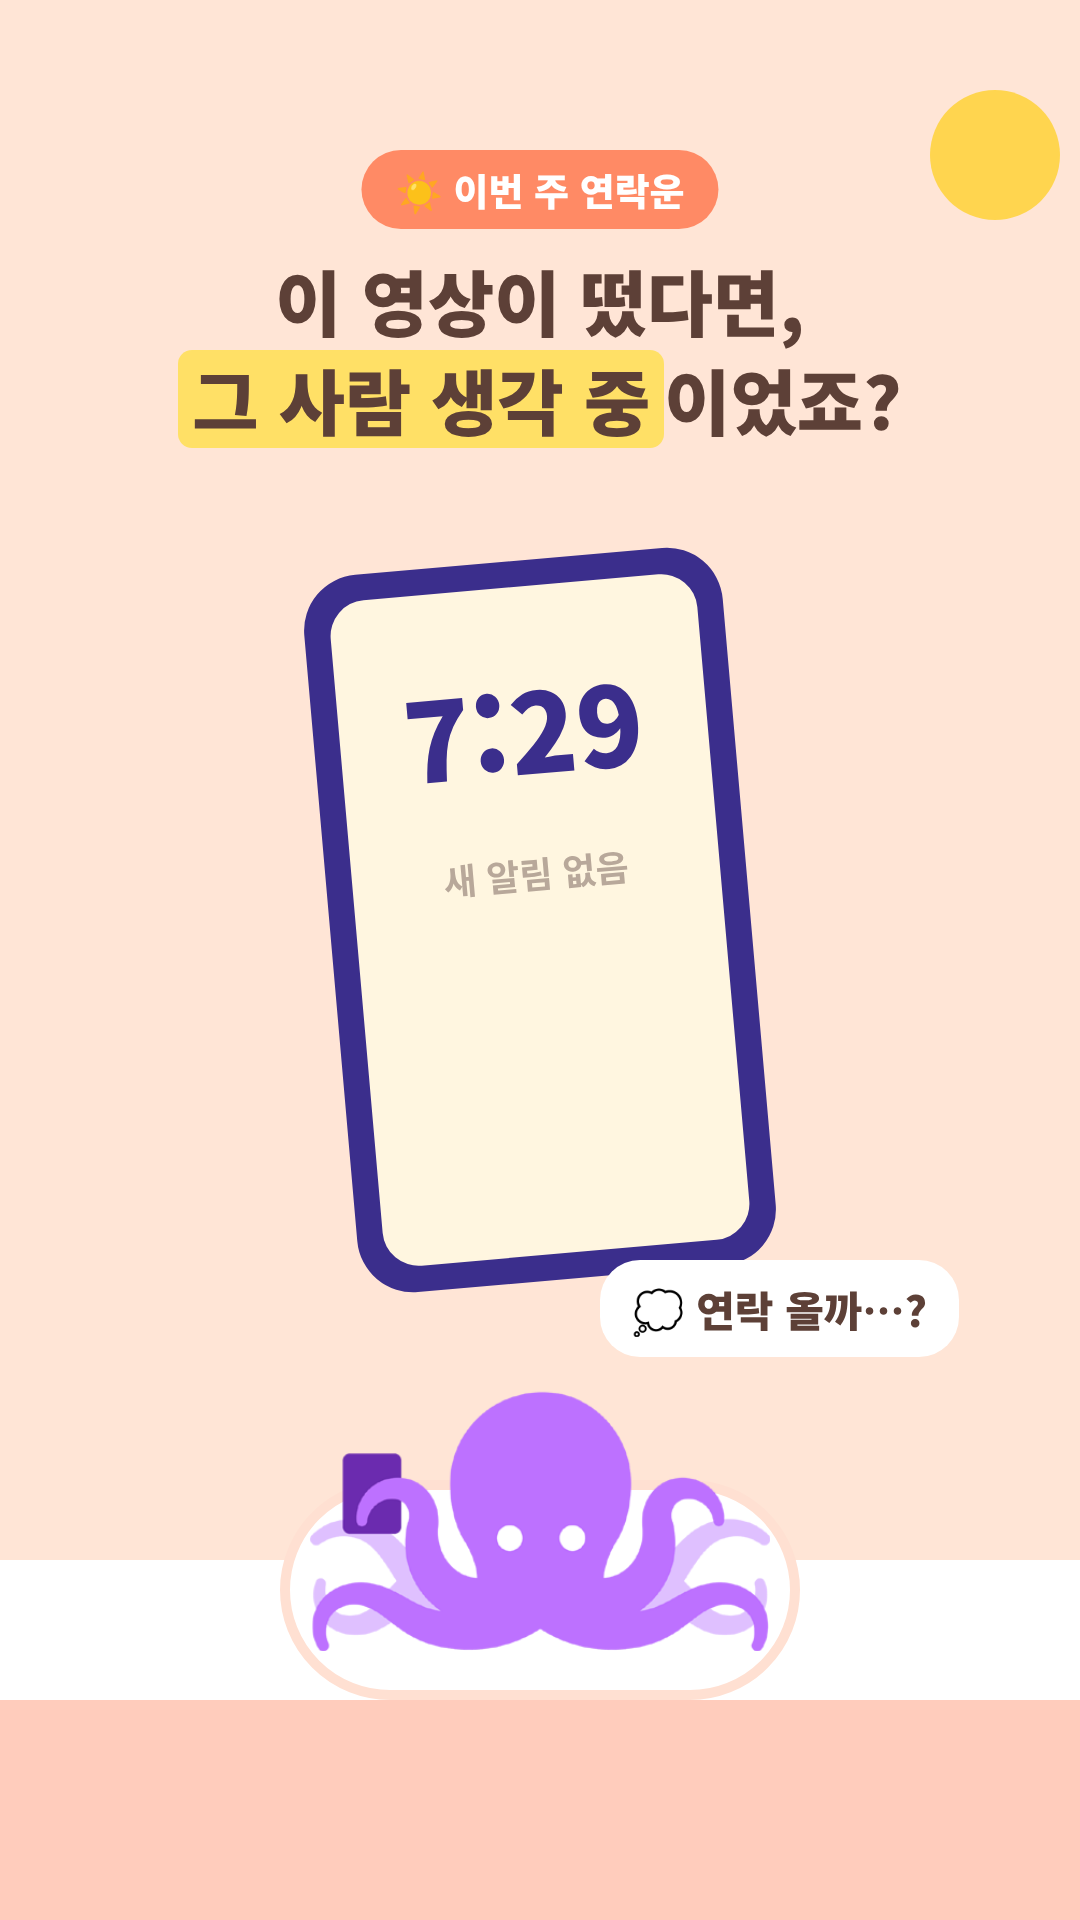
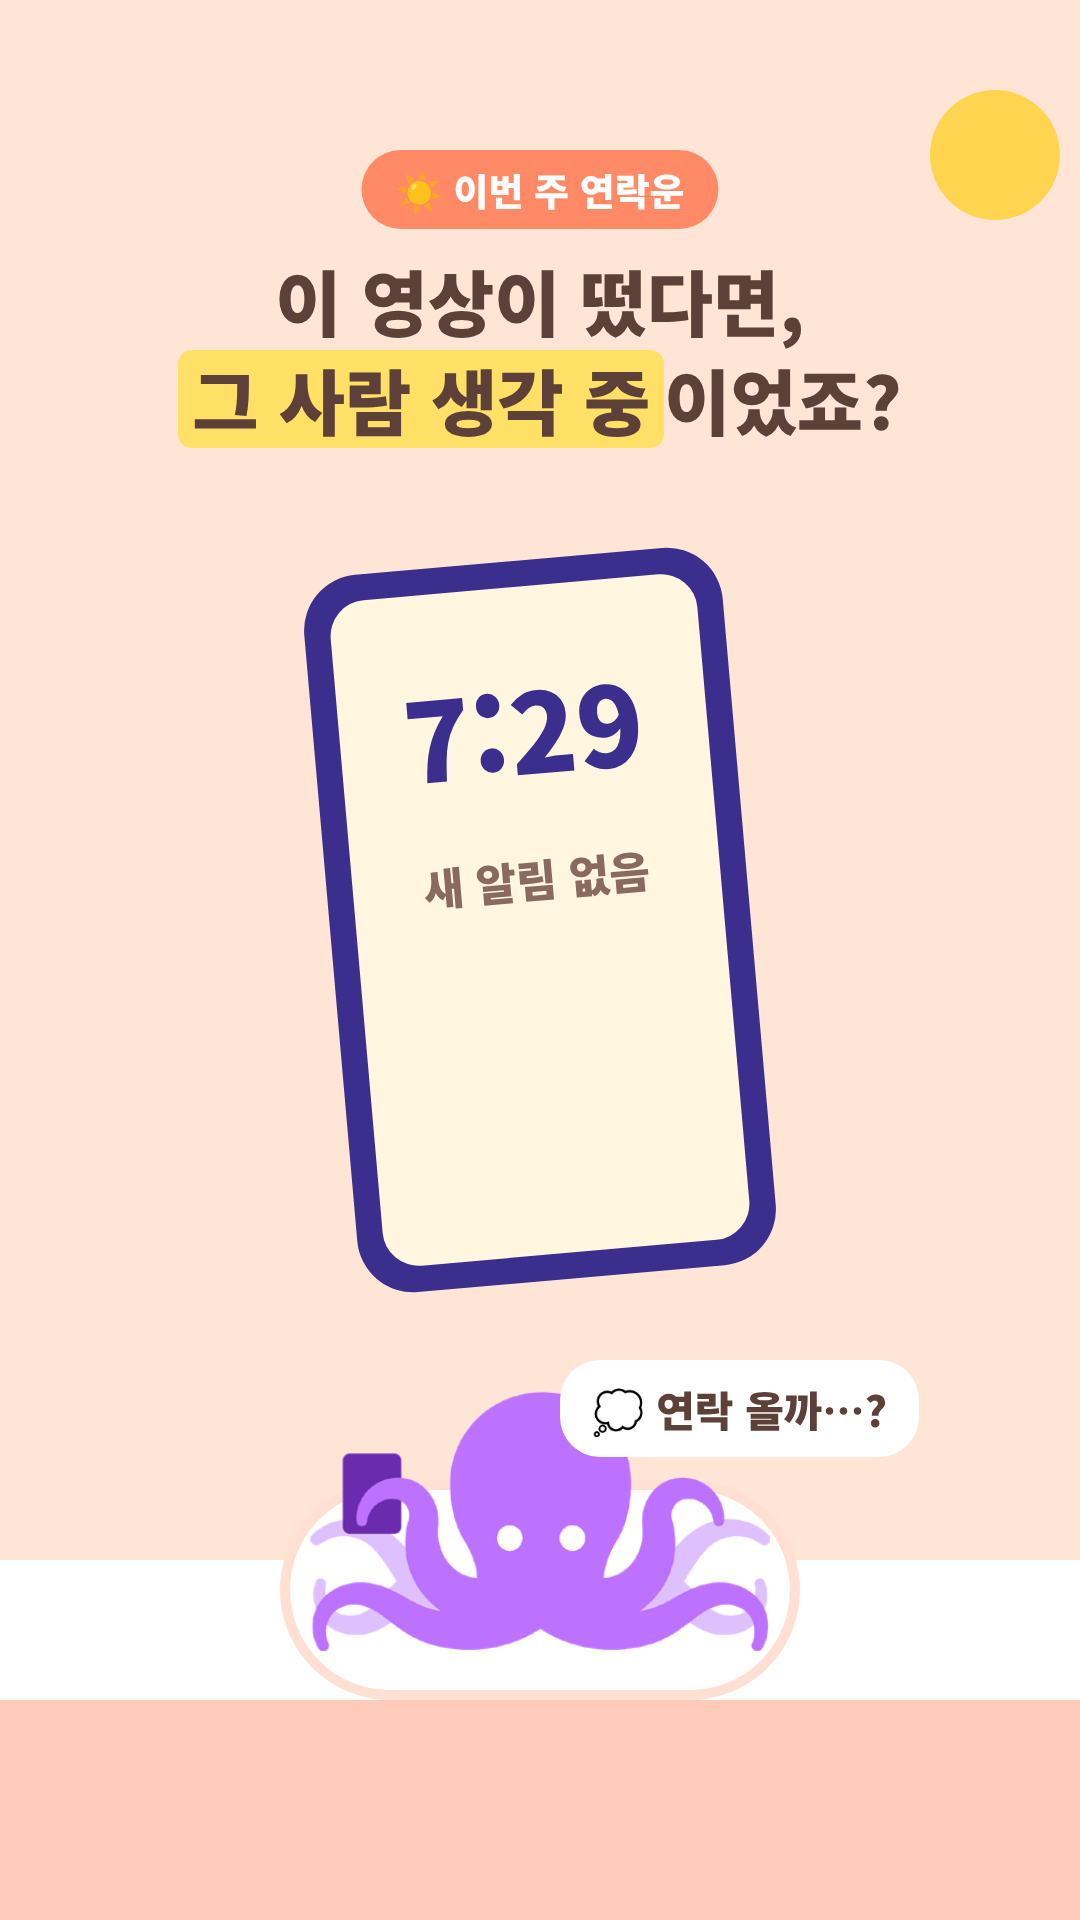
연락운 머리맡 알림: 결론에서 휴대폰 제거, 제목 한 줄, 훅 글씨·풍선 정리
Claude-Session: https://claude.ai/code/session_01CejgdC5FKbbZMnpaYgrfgJ

Changed region(s): [[0.5194, 0.6562, 0.8861, 0.7812], [0.3972, 0.4375, 0.6111, 0.4688]]

diff --git a/promo/src/reel_mcall_04_answer.html b/promo/src/reel_mcall_04_answer.html
@@ -35,8 +35,8 @@
 </style></head><body>
 <div class="f" id="frame">
 <span class="bd">☀ 이번 주 연락운</span><div class="sunw"></div>
-<div class="mini2" style="left:25px;top:780px"><div class="bk" style="background:#FF8A65;border-width:7px;border-radius:14px"><svg viewBox="0 0 10 10"><path d="M5 0Q5.6 4.4 10 5Q5.6 5.6 5 10Q4.4 5.6 0 5Q4.4 4.4 5 0z" fill="#FFE066"/></svg></div><b>과거</b></div><div class="mini2" style="left:185px;top:780px"><div class="bk" style="background:#FF8A65;border-width:7px;border-radius:14px"><svg viewBox="0 0 10 10"><path d="M5 0Q5.6 4.4 10 5Q5.6 5.6 5 10Q4.4 5.6 0 5Q4.4 4.4 5 0z" fill="#FFE066"/></svg></div><b>현재</b></div>
-<div class="cd" style="top:330px;width:420px;left:350px;margin-left:0"><img class="tcard" src="cards/tr17@2x.jpg" alt="Star(별)" style="border:0;border-radius:24px;background:none"></div>
-<div class="phone"><div class="sc"><div class="tm">7:30</div><div class="nt">💬 그 사람<br>좋은 아침 ☀</div><div class="rp">답장하기 💌</div></div></div>
-<div class="ans" style="top:1260px"><span class="mk">이번 주 안에 연락이 와요</span><small>미래 · Star(별) — 멈춰 있던 마음이 이어지는 카드</small></div>
+<div class="mini2" style="left:30px;top:840px"><div class="bk" style="background:#FF8A65;border-width:7px;border-radius:14px"><svg viewBox="0 0 10 10"><path d="M5 0Q5.6 4.4 10 5Q5.6 5.6 5 10Q4.4 5.6 0 5Q4.4 4.4 5 0z" fill="#FFE066"/></svg></div><b>과거</b></div><div class="mini2" style="left:190px;top:840px"><div class="bk" style="background:#FF8A65;border-width:7px;border-radius:14px"><svg viewBox="0 0 10 10"><path d="M5 0Q5.6 4.4 10 5Q5.6 5.6 5 10Q4.4 5.6 0 5Q4.4 4.4 5 0z" fill="#FFE066"/></svg></div><b>현재</b></div>
+<div class="cd" style="top:330px;width:470px;left:360px;margin-left:0"><img class="tcard" src="cards/tr17@2x.jpg" alt="Star(별)" style="border:0;border-radius:24px;background:none"></div>
+
+<div class="ans" style="top:1300px"><span class="mk">이번 주 안에 연락이 와요</span><small>미래 · Star(별) — 멈춰 있던 마음이 이어지는 카드</small></div>
 </div></body></html>

diff --git a/promo/src/reel_mcall_02_future.html b/promo/src/reel_mcall_02_future.html
@@ -26,6 +26,6 @@
 .row span:not(.on){opacity:.35}.row .on{scale:1.15}</style></head><body>
 <div class="f" id="frame">
 <span class="bd">☀ 이번 주 연락운</span><div class="sunw"></div>
-<p class="t">이번 주<br><span class="mk">미래 한 장만</span> 볼게요</p>
+<p class="t" style="top:300px">이번 주 <span class="mk">미래 한 장만</span> 볼게요</p>
 <div class="row" style="top:720px"><span><div class="bk" style="background:#FF8A65"><svg viewBox="0 0 10 10"><path d="M5 0Q5.6 4.4 10 5Q5.6 5.6 5 10Q4.4 5.6 0 5Q4.4 4.4 5 0z" fill="#FFE066"/></svg></div><b>과거</b></span><span><div class="bk" style="background:#FF8A65"><svg viewBox="0 0 10 10"><path d="M5 0Q5.6 4.4 10 5Q5.6 5.6 5 10Q4.4 5.6 0 5Q4.4 4.4 5 0z" fill="#FFE066"/></svg></div><b>현재</b></span><span class="on"><div class="bk" style="background:#FF7AB6"><svg viewBox="0 0 10 10"><path d="M5 0Q5.6 4.4 10 5Q5.6 5.6 5 10Q4.4 5.6 0 5Q4.4 4.4 5 0z" fill="#FFE066"/></svg></div><b>미래</b></span></div><div class="bed" style="top:1560px"></div><div class="pillow" style="top:1480px;left:280px"></div><div class="blanket" style="top:1700px"></div><img src="../../images/mm01.png" style="position:absolute;left:310px;top:1380px;width:460px;z-index:2">
 </div></body></html>

diff --git a/promo/src/reel_mcall_01_hook.html b/promo/src/reel_mcall_01_hook.html
@@ -24,8 +24,8 @@
 .sunw{position:absolute;left:760px;top:460px;width:200px;height:200px;border-radius:50%;background:#FFD54F}.sunw{left:930px;top:90px;width:130px;height:130px}
 .ph2{position:absolute;left:330px;top:560px;width:420px;height:720px;background:#3B2E8C;border-radius:56px;padding:26px;rotate:-5deg;z-index:3}
 .ph2 .sc{width:100%;height:100%;background:#FFF6E0;border-radius:36px;padding:60px 20px;text-align:center}
-.ph2 .tm{font-size:110px;font-weight:900;color:#3B2E8C}.ph2 .em{margin-top:40px;font-size:36px;font-weight:700;color:#B8A89A}
-.th{position:absolute;left:600px;top:1260px;padding:18px 32px;background:#FFF;border-radius:40px;font-size:42px;font-weight:900;color:#5D4037;z-index:5}
+.ph2 .tm{font-size:110px;font-weight:900;color:#3B2E8C}.ph2 .em{margin-top:40px;font-size:44px;font-weight:900;color:#8A6A5E}
+.th{position:absolute;left:560px;top:1360px;padding:18px 32px;background:#FFF;border-radius:40px;font-size:42px;font-weight:900;color:#5D4037;z-index:5}
 </style></head><body>
 <div class="f" id="frame">
 <span class="bd">☀ 이번 주 연락운</span><p class="t">이 영상이 떴다면,<br><span class="mk">그 사람 생각 중</span>이었죠?</p><div class="sunw"></div>
